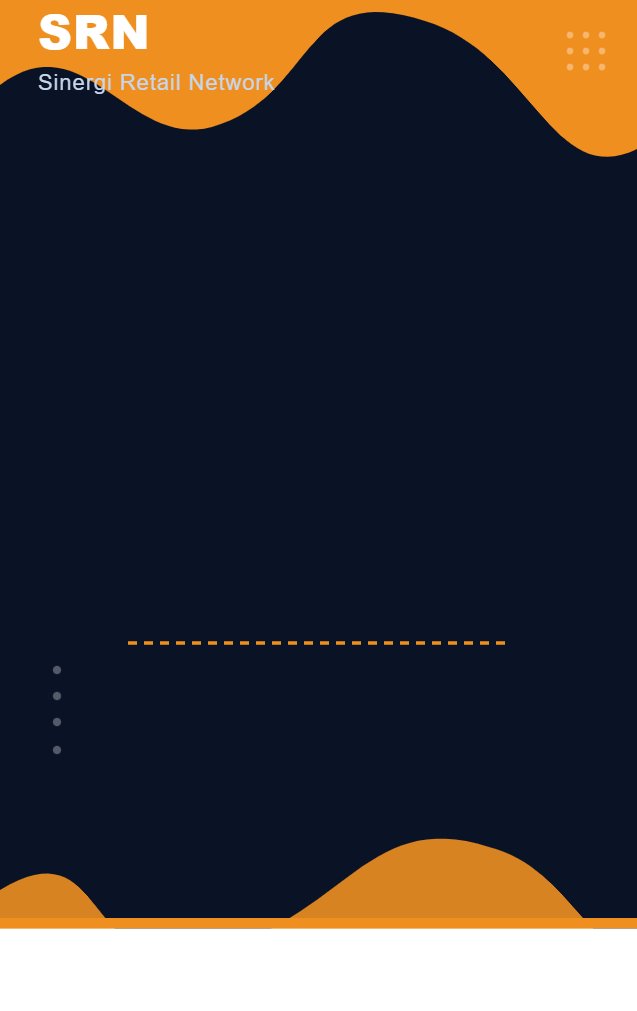
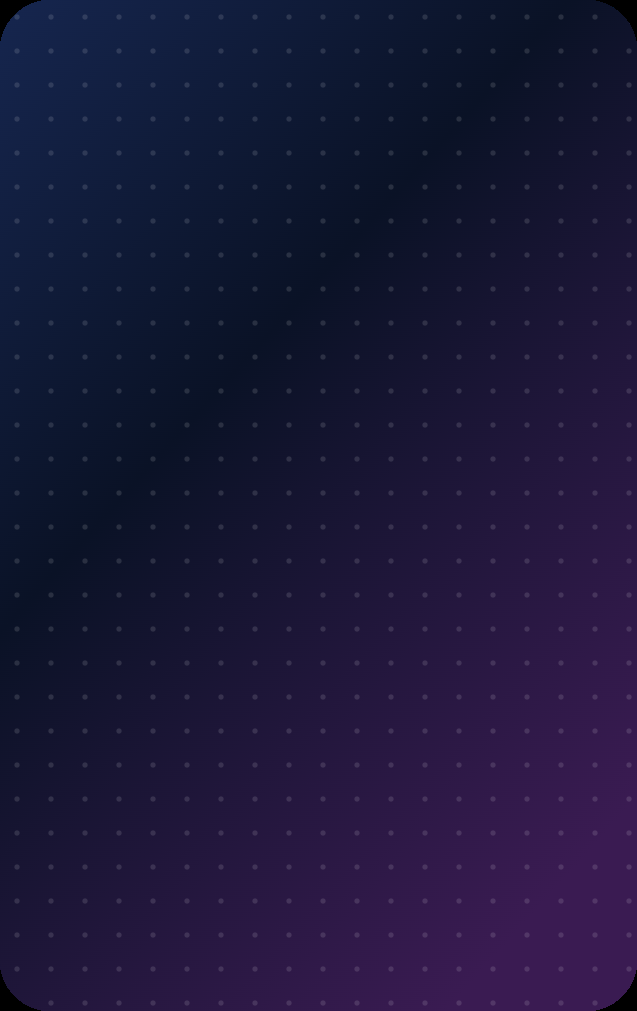
Rombak total desain Kartu Member ke gaya ID card modern (referensi dari user)
User kirim contoh desain ID card BEM (badge judul di atas, foto "nongol"
dari bingkai putih, nama+ID nempel di bingkai, banner quote di bawah) dan
minta kartu member mitra dibikin senada tapi pakai tema SRN (navy+orange)
dan data mitra beneran. Disetujui lewat beberapa ronde mockup interaktif
(widget) sebelum diimplementasi ke fitur asli.

Perubahan pada profiling-mitra-kartu-member.blade.php (versi HTML/preview):
- Background diganti dari 2 bentuk organik jadi gradient navy->ungu
  dengan tekstur titik-titik (dotted), lebih dekat ke referensi.
- Baris 5 logo bulat kecil di atas (SRN + 4 brand: Reglow/Amura/B.U.T/
  Purela) - sebelumnya logo brand ada di footer bawah kartu.
- Foto mitra sekarang "nongol" dari bingkai putih (bukan dikotakin di
  dalam blob) - satu elemen foto yang posisinya overflow ke atas kartu
  putih, torso-nya kelihatan "di dalam" bingkai, kepala+pop-out di atas.
- Nama, ID mitra, no WA, dan kota sekarang nempel jadi satu sama bingkai
  putih foto (sebelumnya teks putih terpisah di atas background gelap).
- Ganti "member card" ala kartu nama jadi lebih mirip ID card modern.

Perubahan pada profiling-mitra-kartu-member-pdf.blade.php (versi PDF,
ditulis ulang total mengikuti desain baru):
- Background di-bake jadi PNG (kartu-member-bg.png, navy+dotted+rounded
  corner) lewat trik svg->canvas di browser, karena DomPDF gak reliable
  buat radial-gradient/dotted pattern langsung dari CSS.
- Sempat kena regresi 2-halaman waktu nyusun ulang: ternyata tinggi
[…]

diff --git a/resources/views/growth-specialist/profiling-mitra-kartu-member.blade.php b/resources/views/growth-specialist/profiling-mitra-kartu-member.blade.php
@@ -4,53 +4,41 @@
     <style>
         .member-card {
             width: 53.98mm; height: 85.6mm; border-radius: 4.3mm; overflow: hidden;
-            background: #0A1226; position: relative; font-family: Arial, Helvetica, sans-serif;
+            position: relative; font-family: Arial, Helvetica, sans-serif;
+            background:
+                radial-gradient(rgba(255,255,255,0.10) 1px, transparent 1.4px) 0 0 / 3.2mm 3.2mm,
+                linear-gradient(165deg, #16264f 0%, #0A1226 42%, #3a1b52 100%);
             box-shadow: 0 8px 24px rgba(0,0,0,0.28); margin: 0 auto;
         }
-        .member-card-blob { position: absolute; top: 0; left: 0; }
-        .member-card-brand {
-            position: absolute; top: 2.9mm; left: 3.2mm; color: #FFFFFF; font-weight: 800;
-            font-size: 15px; letter-spacing: 0.3px;
-        }
-        .member-card-brand-sub {
-            position: absolute; top: 6.8mm; left: 3.2mm; color: #C7D6EC; font-size: 7px; letter-spacing: 0.3px;
-        }
-        .member-card-dots {
-            position: absolute; display: grid; gap: 0.7mm;
-            grid-template-columns: repeat(3, 0.9mm); grid-template-rows: repeat(3, 0.9mm);
-        }
-        .member-card-dots span { width: 0.55mm; height: 0.55mm; border-radius: 50%; background: rgba(255,255,255,0.35); display: block; }
-        .member-card-dots-v { position: absolute; display: flex; flex-direction: column; justify-content: space-between; }
-        .member-card-dots-v span { width: 0.7mm; height: 0.7mm; border-radius: 50%; background: rgba(255,255,255,0.3); display: block; }
-        .member-card-photo {
-            position: absolute; top: 10.8mm; left: 50%; transform: translateX(-50%);
-            width: 32.4mm; height: 41.4mm;
-        }
-        .member-card-photo img {
-            width: 100%; height: 100%; object-fit: contain; display: block;
-            filter: drop-shadow(0 5mm 6mm rgba(0,0,0,0.45));
-        }
-        .member-card-photo-empty {
-            width: 100%; height: 100%; border-radius: 2.9mm; overflow: hidden;
-            box-shadow: 0 5mm 8mm rgba(0,0,0,0.45), 0 0 0 1mm rgba(255,255,255,0.06);
-        }
-        .member-card-idblock { position: absolute; top: 54mm; left: 0; right: 0; text-align: center; }
-        .member-card-dashline { border-top: 0.3mm dashed #EF8F20; width: 70%; margin: 0 auto 2.5mm; }
-        .member-card-nama { color: #FFFFFF; font-weight: 800; font-size: 15px; line-height: 1.2; }
-        .member-card-id { color: #EF8F20; font-weight: 600; font-size: 9px; letter-spacing: 0.4px; margin-top: 0.4mm; }
-        .member-card-lines { position: absolute; top: 66.9mm; left: 0; right: 0; padding: 0 5mm; }
-        .member-card-line { display: flex; align-items: center; gap: 1.1mm; margin-bottom: 1.1mm; }
-        .member-card-line-icon {
-            width: 2.5mm; height: 2.5mm; border-radius: 50%; background: rgba(239,143,32,0.18);
+        .mc-top { padding: 2.6mm 3mm 0; text-align: center; }
+        .mc-logos { display: flex; justify-content: center; gap: 1mm; margin-bottom: 1.6mm; }
+        .mc-logo-badge {
+            width: 4mm; height: 4mm; border-radius: 50%; background: rgba(255,255,255,0.92);
             display: flex; align-items: center; justify-content: center; flex: none;
         }
-        .member-card-line span.txt { color: #DCE3F0; font-size: 9px; }
-        .member-card-footer {
-            position: absolute; bottom: 0; left: 0; right: 0; height: 7.9mm; background: #FFFFFF;
-            display: flex; align-items: center; justify-content: space-evenly; padding: 0 2.5mm;
+        .mc-logo-badge img { width: 2.9mm; height: 2.9mm; object-fit: contain; display: block; }
+        .mc-pill {
+            display: inline-block; border: 0.25mm solid rgba(255,255,255,0.45); border-radius: 999px;
+            padding: 0.9mm 3mm; font-size: 6.5pt; font-weight: 700; color: #FFFFFF; letter-spacing: 0.2px;
         }
-        .member-card-footer img { max-height: 4mm; max-width: 10mm; object-fit: contain; }
-        .member-card-accentbar { position: absolute; bottom: 7.9mm; left: 0; right: 0; height: 0.9mm; background: #EF8F20; }
+        .mc-frame-wrap { position: relative; margin: 15mm auto 0; width: 68%; }
+        .mc-card { background: #FFFFFF; border-radius: 1.6mm; overflow: hidden; box-shadow: 0 3mm 6mm rgba(0,0,0,0.35); }
+        .mc-photo-slot { width: 100%; height: 31.2mm; background: #EDEDED; }
+        .mc-info { padding: 2.2mm 2.6mm 2.6mm; }
+        .mc-nama { color: #1A1247; font-weight: 800; font-size: 11pt; line-height: 1.16; }
+        .mc-id {
+            display: inline-flex; align-items: center; background: #0A1226; color: #FFFFFF;
+            border-radius: 999px; padding: 0.8mm 2.6mm; font-size: 6.5pt; font-weight: 700; margin-top: 1.3mm;
+        }
+        .mc-sub { font-size: 6.2pt; color: #8A8A8A; margin-top: 1.1mm; }
+        .mc-photo-pop {
+            position: absolute; top: -13mm; left: 50%; transform: translateX(-50%);
+            width: 88%; z-index: 2; filter: drop-shadow(0 2mm 3mm rgba(0,0,0,0.4));
+        }
+        .mc-quote {
+            margin-top: 3.5mm; background: rgba(0,0,0,0.28); padding: 2.4mm 3mm;
+            text-align: center; font-style: italic; color: #FFFFFF; font-size: 6.6pt;
+        }
     </style>
 
     <div class="kartu-no-print" style="display:flex; justify-content:space-between; align-items:center; gap:16px; margin-bottom:16px;">
@@ -63,62 +51,32 @@
 
     <div class="card kartu-no-print" style="max-width:500px; margin:0 auto 24px; text-align:center; padding:24px; background:var(--surface-alt);">
         <div class="member-card">
-            <svg class="member-card-blob" width="150" height="72" viewBox="0 0 300 145">
-                <path d="M0,40 C40,10 60,70 100,60 C150,45 140,-10 200,10 C250,25 260,90 300,70 L300,0 L0,0 Z" fill="#EF8F20"/>
-            </svg>
-            <svg class="member-card-blob" style="top:50mm;" width="150" height="36" viewBox="0 0 300 72">
-                <path d="M0,20 C50,-5 40,45 90,40 C160,32 170,0 230,15 C270,25 280,50 300,40 L300,72 L0,72 Z" fill="#EF8F20" opacity="0.9"/>
-            </svg>
-
-            <div class="member-card-brand">SRN</div>
-            <div class="member-card-brand-sub">Sinergi Retail Network</div>
-
-            <div class="member-card-dots" style="top:2.5mm; right:2.9mm;">
-                <span></span><span></span><span></span><span></span><span></span><span></span><span></span><span></span><span></span>
+            <div class="mc-top">
+                <div class="mc-logos">
+                    <div class="mc-logo-badge"><img src="{{ asset('images/srn-icon.png') }}" alt="SRN"></div>
+                    <div class="mc-logo-badge"><img src="{{ asset('images/brands/reglow.png') }}" alt="Reglow"></div>
+                    <div class="mc-logo-badge"><img src="{{ asset('images/brands/amura.png') }}" alt="Amura"></div>
+                    <div class="mc-logo-badge"><img src="{{ asset('images/brands/but.png') }}" alt="B.U.T"></div>
+                    <div class="mc-logo-badge"><img src="{{ asset('images/brands/purela.png') }}" alt="Purela"></div>
+                </div>
+                <div class="mc-pill">Sinergi Retail Network</div>
             </div>
 
-            <div class="member-card-photo">
-                @if ($profil->fotoUrl())
-                    <img src="{{ $profil->fotoUrl() }}" alt="Foto {{ $mitra->nama }}">
-                @else
-                    <div class="member-card-photo-empty" style="background:#EDEDED; display:flex; align-items:center; justify-content:center;">
-                        <svg width="28" height="28" viewBox="0 0 24 24" fill="none" stroke="#B8B8B8" stroke-width="1.6"><circle cx="12" cy="8" r="4"/><path d="M4 20c1-4 4-6 8-6s7 2 8 6" stroke-linecap="round"/></svg>
+            <div class="mc-frame-wrap">
+                <div class="mc-card">
+                    <div class="mc-photo-slot"></div>
+                    <div class="mc-info">
+                        <div class="mc-nama">{{ $mitra->nama }}</div>
+                        <div class="mc-id">{{ $mitra->kode_mitra }}</div>
+                        <div class="mc-sub">{{ $profil->no_wa ?? '—' }} &middot; {{ $profil->domisili_kota ?? '—' }}</div>
                     </div>
+                </div>
+                @if ($profil->fotoUrl())
+                    <img class="mc-photo-pop" src="{{ $profil->fotoUrl() }}" alt="Foto {{ $mitra->nama }}">
                 @endif
             </div>
 
-            <div class="member-card-dots-v" style="top:56.7mm; left:3.6mm; width:2.5mm; height:6.8mm;">
-                <span></span><span></span><span></span><span></span>
-            </div>
-
-            <div class="member-card-idblock">
-                <div class="member-card-dashline"></div>
-                <div class="member-card-nama">{{ $mitra->nama }}</div>
-                <div class="member-card-id">{{ $mitra->kode_mitra }}</div>
-            </div>
-
-            <div class="member-card-lines">
-                <div class="member-card-line">
-                    <span class="member-card-line-icon">
-                        <svg width="7" height="7" viewBox="0 0 24 24" fill="none" stroke="#EF8F20" stroke-width="2.5" stroke-linecap="round" stroke-linejoin="round"><path d="M21 11.5a8.38 8.38 0 0 1-.9 3.8 8.5 8.5 0 0 1-7.6 4.7 8.38 8.38 0 0 1-3.8-.9L3 21l1.9-5.7a8.38 8.38 0 0 1-.9-3.8 8.5 8.5 0 0 1 4.7-7.6 8.38 8.38 0 0 1 3.8-.9h.5a8.48 8.48 0 0 1 8 8v.5z"/></svg>
-                    </span>
-                    <span class="txt">{{ $profil->no_wa ?? '—' }}</span>
-                </div>
-                <div class="member-card-line">
-                    <span class="member-card-line-icon">
-                        <svg width="7" height="7" viewBox="0 0 24 24" fill="none" stroke="#EF8F20" stroke-width="2.5" stroke-linecap="round" stroke-linejoin="round"><path d="M21 10c0 7-9 13-9 13s-9-6-9-13a9 9 0 0 1 18 0z"/><circle cx="12" cy="10" r="3"/></svg>
-                    </span>
-                    <span class="txt">{{ $profil->domisili_kota ? $profil->domisili_kota.($provinsi ? ', '.$provinsi : '') : '—' }}</span>
-                </div>
-            </div>
-
-            <div class="member-card-accentbar"></div>
-            <div class="member-card-footer">
-                <img src="{{ asset('images/brands/reglow.png') }}" alt="Reglow">
-                <img src="{{ asset('images/brands/amura.png') }}" alt="Amura">
-                <img src="{{ asset('images/brands/but.png') }}" alt="B.U.T">
-                <img src="{{ asset('images/brands/purela.png') }}" alt="Purela">
-            </div>
+            <div class="mc-quote">&ldquo;Tumbuh Bersama, Sukses Bersama&rdquo;</div>
         </div>
     </div>
 @endsection

diff --git a/resources/views/growth-specialist/profiling-mitra-kartu-member-pdf.blade.php b/resources/views/growth-specialist/profiling-mitra-kartu-member-pdf.blade.php
@@ -9,59 +9,59 @@
 
     .bg { position: absolute; top: 0; left: 0; width: 53.98mm; height: 85.6mm; }
 
-    .photo { position: absolute; top: 10.8mm; left: 10.79mm; width: 32.4mm; height: 41.4mm; }
-    .photo img { width: 100%; height: 100%; }
-    .photo-placeholder { width: 100%; height: 100%; border-radius: 2.9mm; background-color: #EDEDED; }
+    .top { position: relative; padding-top: 2.6mm; text-align: center; }
+    .logos { border-collapse: collapse; margin: 0 auto 1.6mm; }
+    .logos td { width: 4mm; height: 4mm; border-radius: 50%; background-color: #FFFFFF; text-align: center; vertical-align: middle; padding: 0 0.5mm; }
+    .logos img { width: 2.8mm; }
+    .pill {
+        display: inline-block; border: 0.25mm solid rgba(255,255,255,0.5); border-radius: 999px;
+        padding: 0.9mm 3mm; font-size: 6.5pt; font-weight: bold; color: #FFFFFF;
+    }
 
-    .idblock { position: absolute; top: 57.2mm; left: 0; width: 53.98mm; text-align: center; }
-    .nama { color: #FFFFFF; font-weight: bold; font-size: 12pt; margin: 0; }
-    .id { color: #EF8F20; font-weight: bold; font-size: 7pt; letter-spacing: 0.5px; margin: 0.6mm 0 0; }
+    .frame-wrap { position: relative; margin: 10mm auto 0; width: 68%; }
+    .mc-card { background-color: #FFFFFF; border-radius: 1.6mm; }
+    .photo-slot { width: 100%; height: 22mm; background-color: #EDEDED; }
+    .info { padding: 2.2mm 2.6mm 1.8mm; }
+    .nama { color: #1A1247; font-weight: bold; font-size: 12pt; margin: 0; line-height: 1.16; }
+    .idpill { display: inline-block; background-color: #0A1226; color: #FFFFFF; border-radius: 999px; padding: 0.8mm 2.6mm; font-size: 6.5pt; font-weight: bold; margin-top: 1.3mm; }
+    .sub { font-size: 6.2pt; color: #8A8A8A; margin-top: 0.8mm; }
 
-    table.lines { position: absolute; top: 67mm; left: 5mm; width: 43.98mm; border-collapse: collapse; }
-    table.lines td { padding: 0 0 1.1mm 0; vertical-align: middle; }
-    .icon-td { width: 3mm; }
-    .icon-inline { width: 2.6mm; height: 2.6mm; }
-    .line-text { color: #DCE3F0; font-size: 6.6pt; padding-left: 1.1mm; }
+    .photo-pop { position: absolute; top: 15.37mm; left: 16.05mm; width: 21.89mm; height: 30mm; z-index: 2; }
 
-    table.brands { position: absolute; top: 80mm; left: 0; width: 53.98mm; border-collapse: collapse; }
-    table.brands td { text-align: center; width: 25%; padding: 0; }
-    table.brands img { height: 3.4mm; }
+    .quote { position: relative; margin-top: 3.5mm; background-color: rgba(0,0,0,0.28); padding: 2mm 3mm; text-align: center; font-style: italic; color: #FFFFFF; font-size: 6.6pt; }
 </style>
 </head>
 <body>
     <img class="bg" src="{{ public_path('images/kartu-member-bg.png') }}">
 
-    <div class="photo">
-        @if ($profil->fotoUrl())
-            <img src="{{ public_path('storage/'.$profil->foto) }}">
-        @else
-            <div class="photo-placeholder"></div>
-        @endif
+    <div class="top">
+        <table class="logos" align="center">
+            <tr>
+                <td><img src="{{ public_path('images/srn-icon.png') }}"></td>
+                <td><img src="{{ public_path('images/brands/reglow.png') }}"></td>
+                <td><img src="{{ public_path('images/brands/amura.png') }}"></td>
+                <td><img src="{{ public_path('images/brands/but.png') }}"></td>
+                <td><img src="{{ public_path('images/brands/purela.png') }}"></td>
+            </tr>
+        </table>
+        <div class="pill">Sinergi Retail Network</div>
     </div>
 
-    <div class="idblock">
-        <p class="nama">{{ $mitra->nama }}</p>
-        <p class="id">{{ $mitra->kode_mitra }}</p>
+    <div class="frame-wrap">
+        <div class="mc-card">
+            <div class="photo-slot"></div>
+            <div class="info">
+                <p class="nama">{{ $mitra->nama }}</p>
+                <div class="idpill">{{ $mitra->kode_mitra }}</div>
+                <p class="sub">{{ $profil->no_wa ?? '-' }} &middot; {{ $profil->domisili_kota ?? '-' }}</p>
+            </div>
+        </div>
     </div>
 
-    <table class="lines">
-        <tr>
-            <td class="icon-td"><img class="icon-inline" src="{{ public_path('images/icons/icon-phone.png') }}"></td>
-            <td class="line-text">{{ $profil->no_wa ?? '-' }}</td>
-        </tr>
-        <tr>
-            <td class="icon-td"><img class="icon-inline" src="{{ public_path('images/icons/icon-map.png') }}"></td>
-            <td class="line-text">{{ $profil->domisili_kota ? $profil->domisili_kota.($provinsi ? ', '.$provinsi : '') : '-' }}</td>
-        </tr>
-    </table>
+    @if ($profil->fotoUrl())
+        <img class="photo-pop" src="{{ public_path('storage/'.$profil->foto) }}">
+    @endif
 
-    <table class="brands">
-        <tr>
-            <td><img src="{{ public_path('images/brands/reglow.png') }}"></td>
-            <td><img src="{{ public_path('images/brands/amura.png') }}"></td>
-            <td><img src="{{ public_path('images/brands/but.png') }}"></td>
-            <td><img src="{{ public_path('images/brands/purela.png') }}"></td>
-        </tr>
-    </table>
+    <div class="quote">&ldquo;Tumbuh Bersama, Sukses Bersama&rdquo;</div>
 </body>
 </html>
